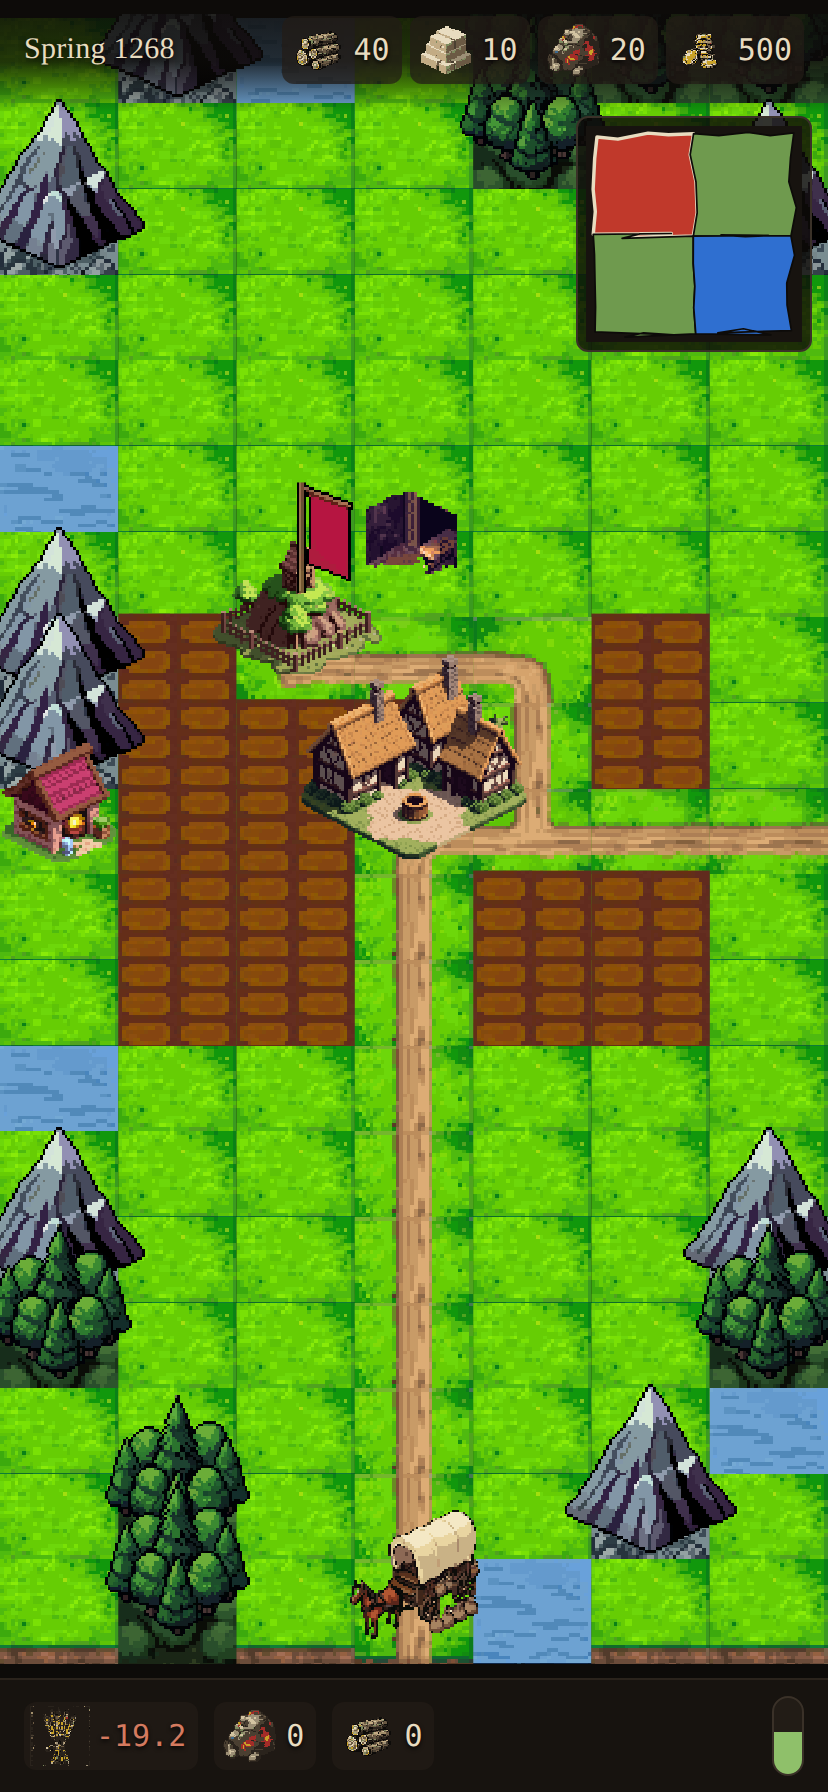
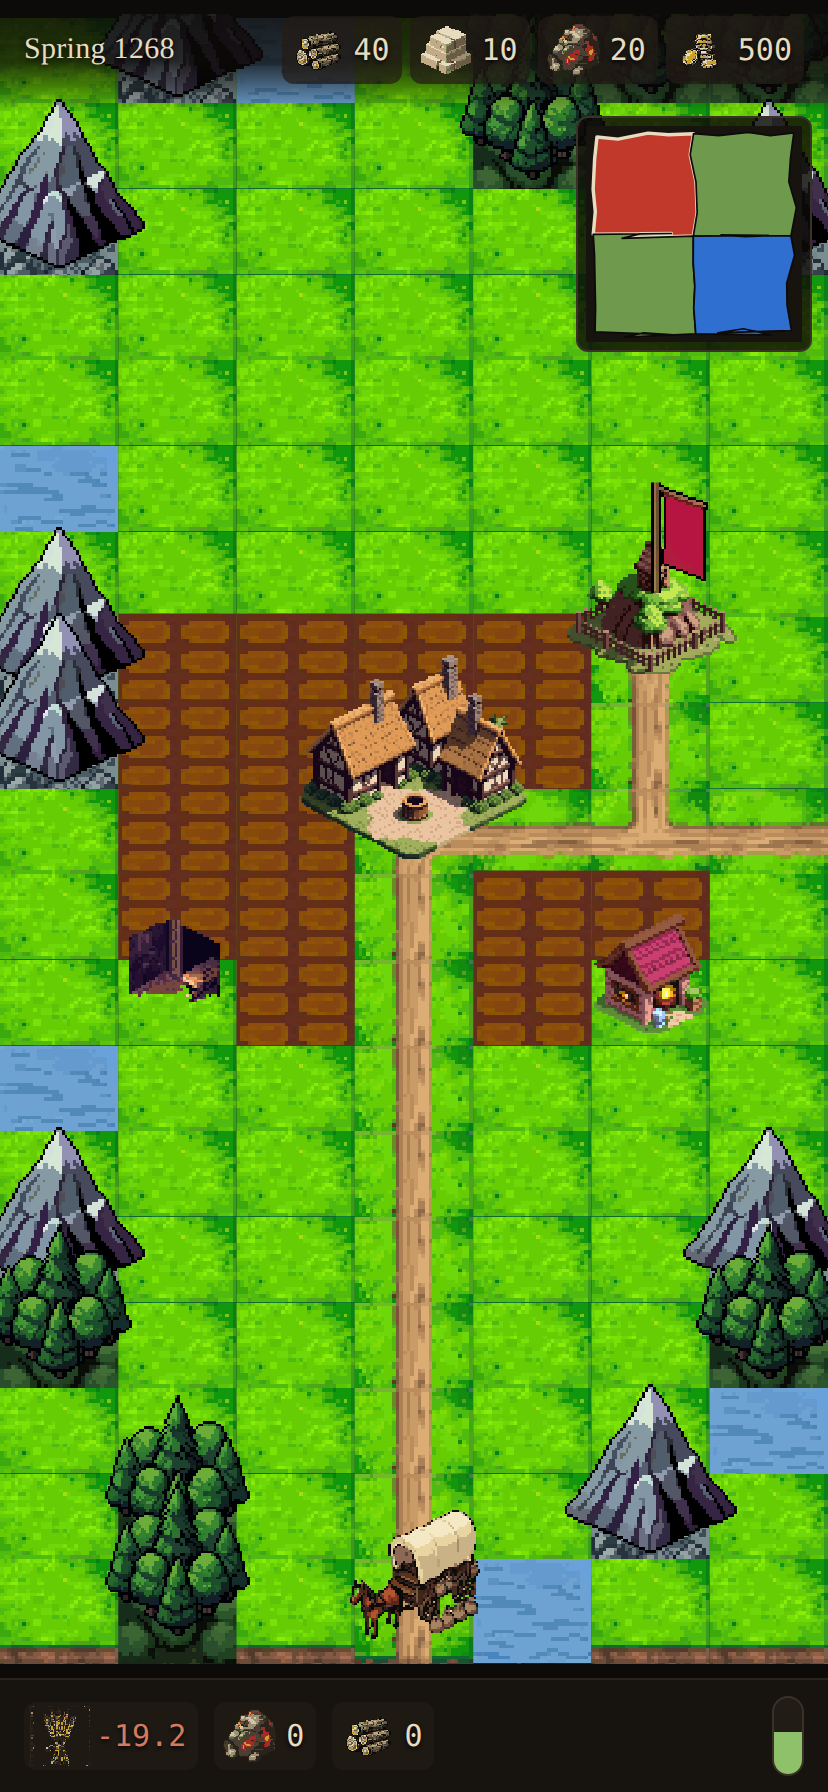
Set the keep back off the highway with a short branch of its own
The spur no longer crossed the town cell, but it still LOOKED like it did: the
castle sat one cell from the town, so its branch appeared to leave the market
square and a march to the keep read as up the road, through the village, back
out again. Where traffic looks like it goes matters as much as where it goes.

The keep now stands a few cells out along the county's first exit road and two
cells off it, joined by a short branch striking off the highway level with the
gate. Main road, small offshoot — which is how a castle actually sits relative
to its village, and it cannot be misread.

That also replaces the BFS from last round with plain geometry. The search
existed to avoid the town while the castle was jammed against it; move the
castle somewhere sensible and there is nothing to route around, so the whole
pathfinder goes.

FOUND WHILE FIXING IT: an inline castle calculation had survived an earlier
edit and sat alongside the call in buildRoads, so there were two sources of
truth for one position — the branch was laid to one cell while the keep was
drawn at another. Collapsed to a single shared value. Worth noting that no
existing test caught this: they checked the castle was ON a road and that the
road JOINED the network, both of which stayed true of the road's own idea of
where the castle was.

New tests close that gap by asserting the two things the eye was actually
judging: the keep is set back from the town by a real distance, and walking
[…]

diff --git a/src/domain/county/interior.ts b/src/domain/county/interior.ts
@@ -245,19 +245,13 @@ export function createInterior(opts: {
   // --- roads -------------------------------------------------------------
   // Laid FIRST, so the ground layer knows to keep them clear. A road that
   // ends in a mountain is not a road.
-  const road = buildRoads(town, castleAt(cols, rows), { cols, rows }, exits);
+  // ONE castle position, shared by the roads and by everything after them.
+  // An earlier edit left an inline copy here as well as the call in
+  // buildRoads, and the two drifted: the branch was laid to one cell while the
+  // keep was drawn at another.
+  const castle = castleAt(cols, rows, exits);
+  const road = buildRoads(town, castle, { cols, rows }, exits);
   const onRoad = new Set(road.map((c) => cellKey(c.col, c.row)));
-
-  // Far enough from the town to read as its own building, close enough to
-  // still read as guarding it. Off the road, so the castle never buries the
-  // one part of the county that movement rules hang off.
-  // One column across and two rows back: diagonal from the town, so the two
-  // sprites never touch, and never on the grid's outer column where half the
-  // keep would sit off the edge of the view.
-  const castle = {
-    col: Math.min(cols - 2, Math.max(1, town.col - 1)),
-    row: Math.min(rows - 2, Math.max(1, town.row - 2)),
-  };
 
   // --- ground layer ------------------------------------------------------
   // Impassable terrain clusters at the edges, leaving the middle workable —
@@ -367,20 +361,56 @@ export function createInterior(opts: {
 /**
  * Where the keep stands.
  *
- * One column across and two rows back from the town: diagonal, so the two
- * sprites never touch, and never on the grid's outer ring where half the keep
- * would sit off the edge of the view.
+ * SET BACK FROM THE TOWN AND OFF A THROUGH-ROAD, not tucked beside the square.
+ * An earlier placement put it one cell from the town, which made its spur look
+ * like it left from the market square — so a march to the keep read as "up the
+ * road, through the town, back out again" even though the path never touched
+ * the town cell. Where it LOOKS like the traffic goes matters as much as where
+ * it goes.
  *
- * Computed rather than stored because the roads have to know it before the
- * interior exists — a castle a road cannot reach is a castle nothing can
- * relieve, resupply or besiege by the rules the map is drawn to.
+ * So: walk out along the county's first exit road, away from the town, then
+ * step off it. The keep ends up a few cells down the highway with a short
+ * branch of its own, which is how a real castle sits relative to its village.
+ *
+ * Computed rather than stored because the roads need it before the interior
+ * exists.
  */
-function castleAt(cols: number, rows: number) {
-  const town = { col: Math.floor(cols / 2), row: Math.floor(rows / 2) };
-  return {
-    col: Math.min(cols - 2, Math.max(1, town.col - 1)),
-    row: Math.min(rows - 2, Math.max(1, town.row - 2)),
-  };
+const ALONG_ROAD = 3;
+const OFF_ROAD = 2;
+
+const townAt = (cols: number, rows: number) => ({
+  col: Math.floor(cols / 2),
+  row: Math.floor(rows / 2),
+});
+
+/** Unit step along an exit, and the perpendicular the keep steps off by. */
+const HEADING: Record<Exit, { along: readonly [number, number]; off: readonly [number, number] }> = {
+  n: { along: [0, -1], off: [-1, 0] },
+  s: { along: [0, 1], off: [1, 0] },
+  e: { along: [1, 0], off: [0, -1] },
+  w: { along: [-1, 0], off: [0, 1] },
+};
+
+function castleAt(cols: number, rows: number, exits: readonly Exit[]) {
+  const town = townAt(cols, rows);
+  // Never on the outer ring, where half the keep would sit off the view.
+  const clamp = (c: { col: number; row: number }) => ({
+    col: Math.min(cols - 2, Math.max(1, c.col)),
+    row: Math.min(rows - 2, Math.max(1, c.row)),
+  });
+
+  const exit = exits[0];
+  if (!exit) {
+    // No neighbours means no through-road to sit beside. Nothing is passing
+    // through this county anyway, so there is no traffic to route badly.
+    return clamp({ col: town.col - 1, row: town.row - 2 });
+  }
+
+  const { along, off } = HEADING[exit];
+  return clamp({
+    col: town.col + along[0] * ALONG_ROAD + off[0] * OFF_ROAD,
+    row: town.row + along[1] * ALONG_ROAD + off[1] * OFF_ROAD,
+  });
 }
 
 /**
@@ -428,74 +458,35 @@ function buildRoads(
     push(target.col, target.row);
   }
 
-  // A spur to the keep, joining the network WITHOUT crossing the market square.
+  // A SHORT BRANCH off the highway, not a path back through the village.
   //
-  // Every castle must be reachable by road — a garrison is relieved, resupplied
-  // and besieged along one — but an army riding to the keep should not have to
-  // file through the town centre to get there.
-  //
-  // Shortest path rather than another L-path: the castle sits diagonally from
-  // the town and the exit runs lie along the town's row and column, so which
-  // side the spur ought to join depends on which exits the county actually has.
-  // That case analysis goes wrong before it goes long.
-  for (const cell of pathToRoad(castle, town, bounds, seen)) push(cell.col, cell.row);
+  // The junction is the point on the exit road level with the keep, so the
+  // branch runs straight off the road it already passes — two cells, clearly
+  // an offshoot. Nothing routes via the town, and nothing looks like it does.
+  const exit = exits[0];
+  if (exit) {
+    const { along } = HEADING[exit];
+    const horizontal = along[0] !== 0;
+    const junction = horizontal
+      ? { col: castle.col, row: town.row }
+      : { col: town.col, row: castle.row };
+    push(junction.col, junction.row);
+    const step = horizontal
+      ? Math.sign(castle.row - junction.row)
+      : Math.sign(castle.col - junction.col);
+    if (horizontal) {
+      for (let r = junction.row; r !== castle.row; r += step) push(junction.col, r);
+    } else {
+      for (let c = junction.col; c !== castle.col; c += step) push(c, junction.row);
+    }
+  } else {
+    // Degenerate county: no exits, so the only road is the town itself.
+    const stepRow = Math.sign(castle.row - town.row);
+    for (let r = town.row; r !== castle.row; r += stepRow) push(town.col, r);
+    const stepCol = Math.sign(castle.col - town.col);
+    for (let c = town.col; c !== castle.col; c += stepCol) push(c, castle.row);
+  }
+  push(castle.col, castle.row);
 
   return out;
-}
-
-/**
- * Shortest path from the castle to the road network, never through the town.
- *
- * Breadth-first over the grid, with the town cell removed from the graph
- * entirely — not merely avoided as a goal. A county whose only road IS the town
- * has nothing else to reach, so the search finds nothing and the spur is just
- * the gate cell: there is no through-route to divert, because there is no
- * through-route.
- */
-function pathToRoad(
-  castle: { readonly col: number; readonly row: number },
-  town: { readonly col: number; readonly row: number },
-  bounds: { readonly cols: number; readonly rows: number },
-  road: ReadonlySet<string>,
-): { col: number; row: number }[] {
-  const start = { col: castle.col, row: castle.row };
-  const isTown = (c: { col: number; row: number }) => c.col === town.col && c.row === town.row;
-
-  const queue: { col: number; row: number }[] = [start];
-  const cameFrom = new Map<string, string | null>([[cellKey(start.col, start.row), null]]);
-  const at = new Map<string, { col: number; row: number }>([
-    [cellKey(start.col, start.row), start],
-  ]);
-
-  let goal: string | null = null;
-  while (queue.length > 0) {
-    const cell = queue.shift()!;
-    const key = cellKey(cell.col, cell.row);
-    if (road.has(key) && !isTown(cell) && key !== cellKey(start.col, start.row)) {
-      goal = key;
-      break;
-    }
-    for (const [dc, dr] of [[0, -1], [1, 0], [0, 1], [-1, 0]] as const) {
-      const next = { col: cell.col + dc, row: cell.row + dr };
-      const nk = cellKey(next.col, next.row);
-      if (cameFrom.has(nk)) continue;
-      if (next.col < 0 || next.row < 0 || next.col >= bounds.cols || next.row >= bounds.rows) {
-        continue;
-      }
-      if (isTown(next)) continue;
-      cameFrom.set(nk, key);
-      at.set(nk, next);
-      queue.push(next);
-    }
-  }
-
-  // Nothing to join: the gate still gets its cell so the castle is on a road.
-  if (goal === null) return [start];
-
-  const path: { col: number; row: number }[] = [];
-  for (let key: string | null = goal; key !== null; key = cameFrom.get(key) ?? null) {
-    const cell = at.get(key);
-    if (cell) path.push(cell);
-  }
-  return path;
 }

diff --git a/src/ui/county/overheadCamera.test.ts b/src/ui/county/overheadCamera.test.ts
@@ -205,3 +205,44 @@ describe('field art follows field state', () => {
     expect(new Set(stages).size).toBeGreaterThan(1);
   });
 });
+
+describe('the keep sits off the highway, not off the square', () => {
+  const build = (exits: readonly ('n' | 'e' | 's' | 'w')[]) =>
+    createInterior({
+      size: 4,
+      resource: 'wheat',
+      rng: createRng(4).next,
+      exits,
+      grid: { cols: 7, rows: 19 },
+    });
+
+  it('sets the castle back from the town rather than beside it', () => {
+    // It previously sat one cell away, which made its spur look like it left
+    // from the market square even though the path never crossed the town.
+    for (const exits of [['e', 's'], ['n'], ['w']] as const) {
+      const { castle, town } = build(exits);
+      const gap = Math.abs(castle.col - town.col) + Math.abs(castle.row - town.row);
+      expect(gap, `exits=[${exits.join(',')}]`).toBeGreaterThanOrEqual(4);
+    }
+  });
+
+  it('joins the road by a short branch, not a long detour', () => {
+    // The branch is what makes it read as an offshoot. A long one reads as a
+    // second road and puts the traffic back through the middle of the county.
+    const interior = build(['e', 's']);
+    const road = new Set(interior.road.map((c) => `${c.col},${c.row}`));
+    const { castle, town } = interior;
+
+    // Walking from the keep back along the branch must reach the highway
+    // within a couple of cells, and must not pass the town on the way.
+    let steps = 0;
+    let cell = { ...castle };
+    while (cell.row !== town.row && steps < 5) {
+      cell = { col: cell.col, row: cell.row + Math.sign(town.row - cell.row) };
+      expect(road.has(`${cell.col},${cell.row}`)).toBe(true);
+      expect(cell.col === town.col && cell.row === town.row).toBe(false);
+      steps += 1;
+    }
+    expect(steps).toBeLessThanOrEqual(3);
+  });
+});
